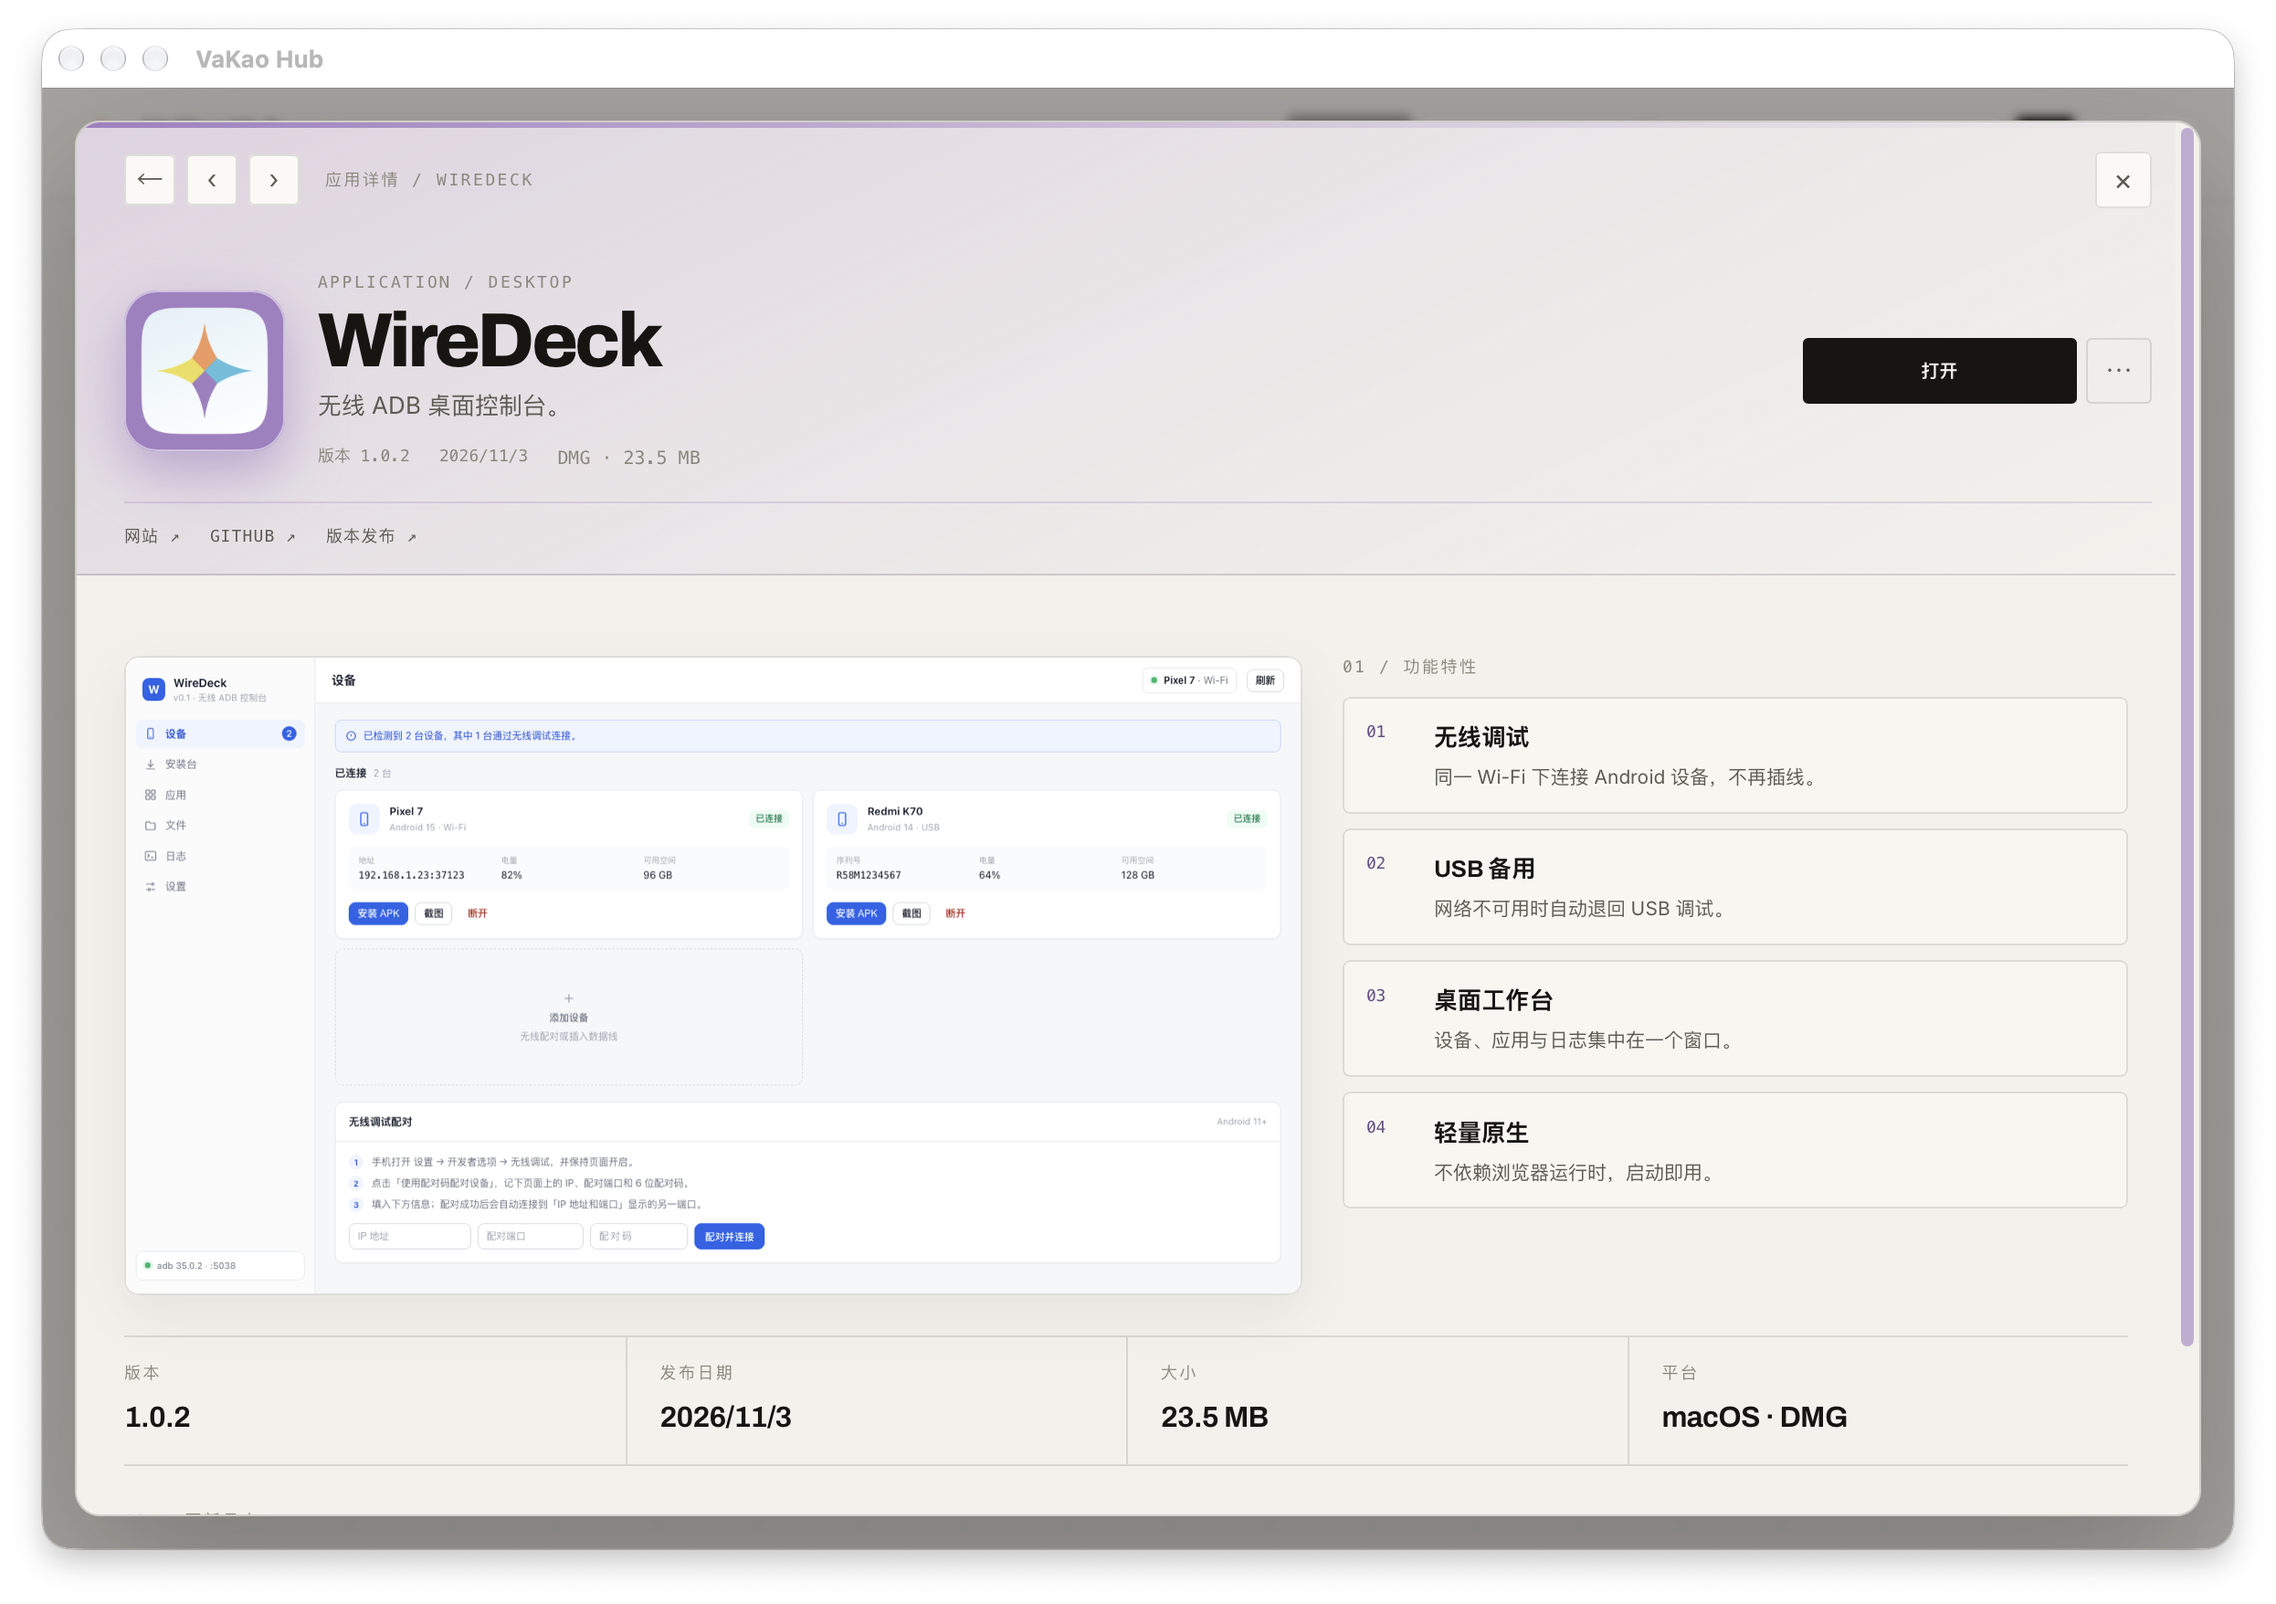
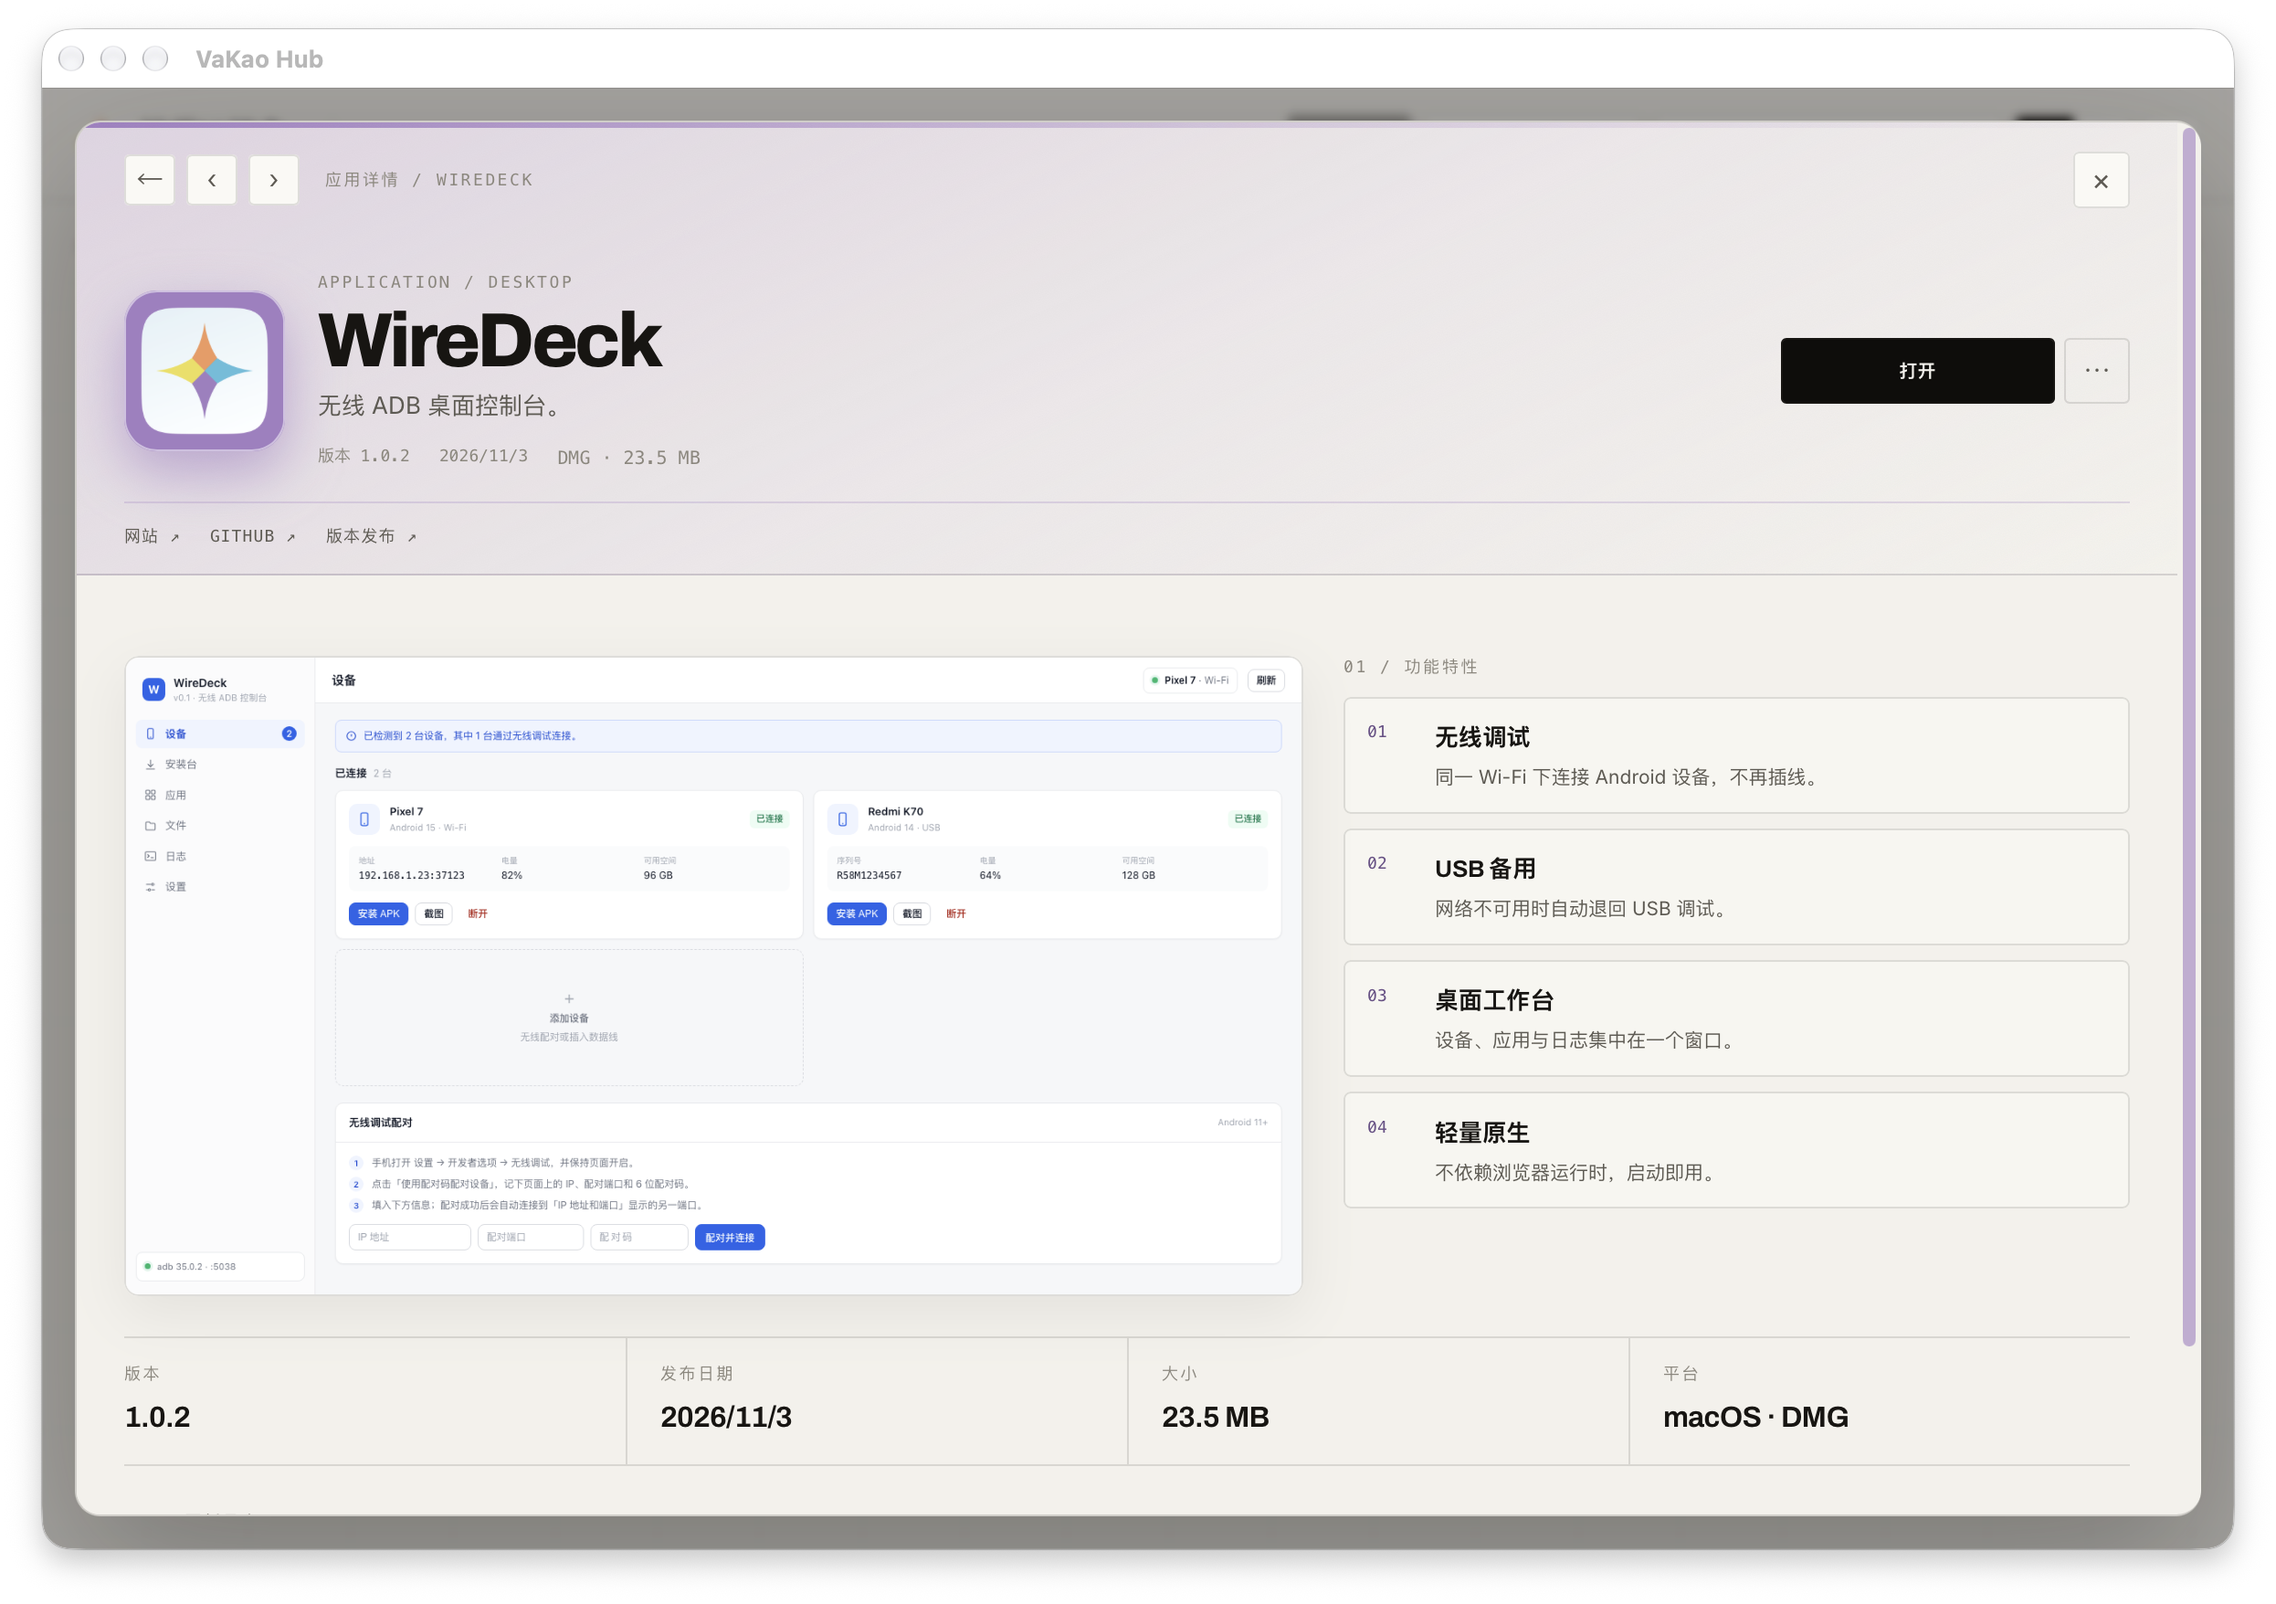
fix(launcher): populate more menu and flatten themed scrollbar

diff --git a/packages/launcher/frontend/src/App.vue b/packages/launcher/frontend/src/App.vue
@@ -159,14 +159,18 @@
 
           <div v-if="menuKey === app.appKey" class="card-menu" @click.stop>
             <button @click="openDetail(app)">查看详情</button>
+            <button v-if="app.installed && !app.running" @click="launch(app)">打开</button>
+            <button v-if="app.installed" @click="reveal(app)">在访达中显示</button>
+            <button v-if="app.installed && !app.running" @click="install(app)">重新安装</button>
             <button v-if="app.homepage" @click="openUrl(app.homepage)">打开主页</button>
             <button v-if="app.repoUrl" @click="openUrl(app.repoUrl)">查看源码</button>
+            <div v-if="app.installed && !app.running" class="menu-divider"></div>
             <button
               v-if="app.installed && !app.running"
               class="danger"
               @click="uninstall(app)"
             >
-              卸载
+              卸载…
             </button>
           </div>
         </article>
@@ -211,16 +215,22 @@
             <template v-else-if="selected.hasUpdate">更新至 {{ selected.latestVersion }}</template>
             <template v-else>打开</template>
           </button>
-          <button class="more detail-more" @click="toggleMenu(selected)">⋯</button>
+          <button class="more detail-more" @click.stop="toggleMenu(selected)">⋯</button>
           <div v-if="menuKey === selected.appKey" class="card-menu detail-menu" @click.stop>
+            <button v-if="selected.running" disabled>当前运行</button>
+            <button v-if="selected.installed && !selected.running" @click="launch(selected)">打开</button>
+            <button v-if="selected.installed" @click="reveal(selected)">在访达中显示</button>
+            <button v-if="selected.installed && !selected.running" @click="install(selected)">重新安装</button>
+            <button @click="scrollToChangelog">更新说明</button>
             <button v-if="selected.homepage" @click="openUrl(selected.homepage)">打开主页</button>
             <button v-if="selected.repoUrl" @click="openUrl(selected.repoUrl)">查看源码</button>
+            <div v-if="selected.installed && !selected.running" class="menu-divider"></div>
             <button
               v-if="selected.installed && !selected.running"
               class="danger"
               @click="uninstall(selected)"
             >
-              卸载
+              卸载…
             </button>
           </div>
         </div>
@@ -538,6 +548,7 @@ async function load(): Promise<void> {
 
 async function install(app: AppView): Promise<void> {
   if (app.running) return;
+  menuKey.value = '';
   busyKeys.value = { ...busyKeys.value, [app.appKey]: true };
   error.value = '';
   try {
@@ -573,6 +584,7 @@ async function primaryAction(app: AppView): Promise<void> {
 
 async function uninstall(app: AppView): Promise<void> {
   if (app.running) return;
+  menuKey.value = '';
   if (!window.confirm(`确定卸载 ${app.name}？安装目录会被删除。`)) return;
   error.value = '';
   try {
@@ -587,6 +599,7 @@ async function uninstall(app: AppView): Promise<void> {
 }
 
 async function launch(app: AppView): Promise<void> {
+  menuKey.value = '';
   error.value = '';
   try {
     await api().Launch(app.appKey);
@@ -673,7 +686,24 @@ async function saveSettings(): Promise<void> {
   }
 }
 
+function reveal(app: AppView): Promise<void> {
+  menuKey.value = '';
+  error.value = '';
+  return api().Reveal(app.appKey).catch((cause: unknown) => {
+    error.value = (cause as Error).message;
+  });
+}
+
+function scrollToChangelog(): void {
+  menuKey.value = '';
+  void nextTick(() => {
+    const target = document.querySelector('.changelog');
+    target?.scrollIntoView({ behavior: 'smooth', block: 'start' });
+  });
+}
+
 function openUrl(url: string): void {
+  menuKey.value = '';
   api().OpenURL(url);
 }
 

diff --git a/packages/launcher/frontend/src/style.css b/packages/launcher/frontend/src/style.css
@@ -654,8 +654,8 @@ button {
   right: 13px;
   bottom: 53px;
   z-index: 4;
-  min-width: 132px;
-  padding: 4px;
+  min-width: 184px;
+  padding: 5px;
   border: 1px solid var(--line);
   border-radius: 4px;
   background: var(--paper);
@@ -681,6 +681,22 @@ button {
 
 .card-menu button.danger {
   color: #9a453a;
+}
+
+.card-menu button:disabled {
+  opacity: 0.42;
+  cursor: default;
+}
+
+.card-menu button:disabled:hover {
+  background: transparent;
+  color: var(--muted);
+}
+
+.menu-divider {
+  height: 1px;
+  margin: 4px 6px;
+  background: var(--line-soft);
 }
 
 /* ---------- list mode ---------- */
@@ -748,6 +764,7 @@ button {
   margin: auto;
   overflow: hidden;
   border: 1px solid rgba(23, 21, 18, 0.16);
+  border-right: 0;
   border-radius: 14px;
   background: var(--paper);
   box-shadow: 0 28px 80px rgba(14, 13, 11, 0.28);
@@ -903,6 +920,7 @@ button {
   top: 42px;
   right: 0;
   bottom: auto;
+  width: 196px;
 }
 
 .detail-links {
@@ -1187,8 +1205,8 @@ button {
 .content::-webkit-scrollbar,
 .drawer::-webkit-scrollbar,
 .detail-scroll::-webkit-scrollbar {
-  width: 8px;
-  height: 8px;
+  width: 9px;
+  height: 9px;
 }
 
 .content::-webkit-scrollbar-track,
@@ -1215,15 +1233,22 @@ button {
 }
 
 .detail-scroll::-webkit-scrollbar-thumb {
-  border: 2px solid transparent;
-  border-radius: 8px;
+  border: 0;
+  border-radius: 0;
   background: var(--theme-scroll);
-  background-clip: content-box;
 }
 
 .detail-scroll::-webkit-scrollbar-thumb:hover {
   background: var(--theme);
-  background-clip: content-box;
+}
+
+.detail-scroll::-webkit-scrollbar-button {
+  display: none;
+  height: 0;
+}
+
+.detail-scroll::-webkit-scrollbar-corner {
+  background: transparent;
 }
 
 @keyframes overlay-in {

diff --git a/packages/website/index.html b/packages/website/index.html
@@ -65,7 +65,7 @@
           <div class="hero-visual" aria-hidden="true">
             <div class="visual-grid"></div>
             <div class="window">
-              <img src="./assets/screens/launcher.png?v=20261103d" alt="" />
+              <img src="./assets/screens/launcher.png?v=20261103e" alt="" />
             </div>
             <div class="float-card">
               <span class="hud">LIVE / CATALOG</span>
@@ -182,7 +182,7 @@
             <a class="button" href="#apps">下载启动器 <span aria-hidden="true">↗</span></a>
           </div>
           <figure class="inside-visual">
-            <img src="./assets/screens/launcher.png?v=20261103d" alt="VaKao Hub 启动器界面" />
+            <img src="./assets/screens/launcher.png?v=20261103e" alt="VaKao Hub 启动器界面" />
           </figure>
         </section>
       </main>

diff --git a/packages/launcher/frontend/wailsjs/go/main/App.js b/packages/launcher/frontend/wailsjs/go/main/App.js
@@ -22,6 +22,10 @@ export function OpenURL(arg1) {
   return window['go']['main']['App']['OpenURL'](arg1);
 }
 
+export function Reveal(arg1) {
+  return window['go']['main']['App']['Reveal'](arg1);
+}
+
 export function SaveSettings(arg1) {
   return window['go']['main']['App']['SaveSettings'](arg1);
 }

diff --git a/packages/launcher/frontend/wailsjs/go/main/App.d.ts b/packages/launcher/frontend/wailsjs/go/main/App.d.ts
@@ -13,6 +13,8 @@ export function Launch(arg1:string):Promise<void>;
 
 export function OpenURL(arg1:string):Promise<void>;
 
+export function Reveal(arg1:string):Promise<void>;
+
 export function SaveSettings(arg1:string):Promise<main.Settings>;
 
 export function Uninstall(arg1:string):Promise<void>;

diff --git a/packages/launcher/frontend/src/api.ts b/packages/launcher/frontend/src/api.ts
@@ -57,6 +57,7 @@ interface WailsApp {
   Install(appKey: string, artifactID: number): Promise<Installed>;
   Launch(appKey: string): Promise<void>;
   Uninstall(appKey: string): Promise<void>;
+  Reveal(appKey: string): Promise<void>;
   OpenURL(url: string): void;
 }
 

diff --git a/packages/launcher/app.go b/packages/launcher/app.go
@@ -341,6 +341,30 @@ func (a *App) Launch(appKey string) error {
 	return install.Launch(item.InstallPath)
 }
 
+// Reveal 在系统文件管理器中选中应用。
+func (a *App) Reveal(appKey string) error {
+	a.mu.Lock()
+	defer a.mu.Unlock()
+
+	path := ""
+	if appKey == "vakaohub" {
+		if current, _, ok := install.CurrentBundle(); ok {
+			path = current
+		}
+	}
+	if path == "" {
+		item, ok := a.store.Get(appKey)
+		if !ok {
+			return fmt.Errorf("尚未安装该应用")
+		}
+		path = item.InstallPath
+	}
+	if _, err := os.Stat(path); err != nil {
+		return fmt.Errorf("安装目录不存在：%s", path)
+	}
+	return install.Reveal(path)
+}
+
 func (a *App) OpenURL(url string) {
 	if a.ctx != nil {
 		wruntime.BrowserOpenURL(a.ctx, url)

diff --git a/packages/launcher/internal/install/reveal_other.go b/packages/launcher/internal/install/reveal_other.go
@@ -1,0 +1,10 @@
+//go:build !darwin
+
+package install
+
+import "fmt"
+
+// Reveal 在非 macOS 平台暂未实现。
+func Reveal(_ string) error {
+	return fmt.Errorf("当前平台暂不支持在文件管理器中显示")
+}

diff --git a/packages/launcher/internal/install/reveal_darwin.go b/packages/launcher/internal/install/reveal_darwin.go
@@ -1,0 +1,10 @@
+//go:build darwin
+
+package install
+
+import "os/exec"
+
+// Reveal 在访达中选中指定应用。
+func Reveal(path string) error {
+	return exec.Command("open", "-R", path).Run()
+}
